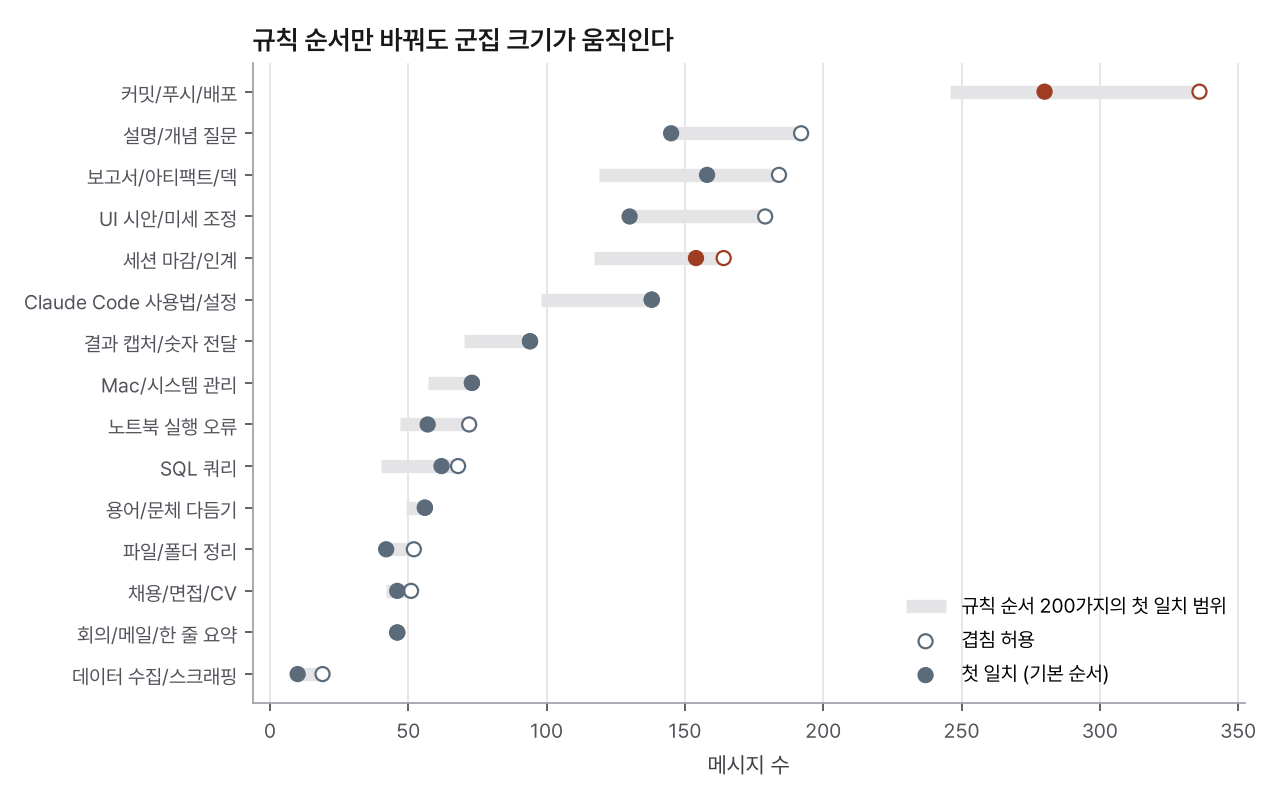
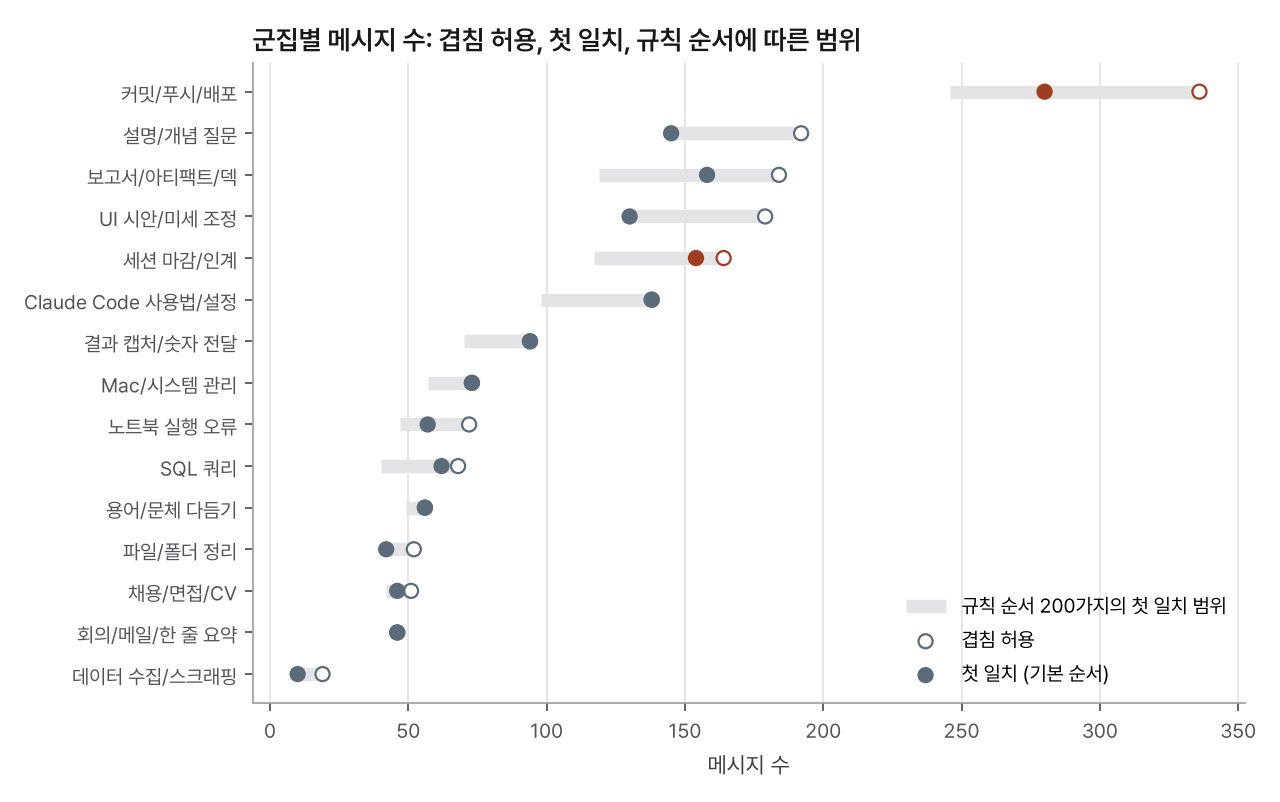
wrap 그림 제목을 명사형으로, 13%는 funnel.csv에서

Changed region(s): [[0.1875, 0.0312, 0.6875, 0.0623]]

diff --git a/session-wrap-usage-log/scripts/07_site_figures.py b/session-wrap-usage-log/scripts/07_site_figures.py
@@ -50,7 +50,7 @@ def fig1():
     ax.set_xlim(0, total)
     ax.set_ylim(-0.8, 0.72)
     ax.axis("off")
-    ax.set_title(f"user 내용 조각 {total:,}개 중 사람이 입력한 것은 13%다", pad=10)
+    ax.set_title(f"user content block {total:,}개의 구성 (사람이 입력한 것 {share:.0%})", pad=10)
     ss.save(fig, "fig1_composition")
 
 
@@ -68,7 +68,7 @@ def fig2():
     ax.set_xlabel("메시지 수")
     ax.grid(axis="x")
     ax.legend(loc="lower right")
-    ax.set_title("규칙 순서만 바꿔도 군집 크기가 움직인다")
+    ax.set_title("군집별 메시지 수: 겹침 허용, 첫 일치, 규칙 순서에 따른 범위")
     ss.save(fig, "fig2_cluster_counts")
 
 
@@ -95,7 +95,7 @@ def fig3():
     ax.set_xlabel("precision (잡은 것 중 맞은 비율)")
     ax.set_ylabel("recall (실제 그 의도 중 잡은 비율)")
     ax.grid()
-    ax.set_title("규칙의 오차는 놓치는 군집과 끌어오는 군집으로 갈린다")
+    ax.set_title("첫 일치 규칙의 군집별 precision과 recall")
     ss.save(fig, "fig3_rule_precision_recall")
 
 
@@ -117,7 +117,7 @@ def fig4():
     ax.set_xlabel("붙인 뒤 메시지 수 - ground truth (왼쪽은 작게, 오른쪽은 크게 셈)")
     ax.spines["left"].set_visible(False)
     ax.tick_params(axis="y", length=0)
-    ax.set_title("짧은 응답을 붙여도 세션 마감은 작고 UI 시안은 크다")
+    ax.set_title("짧은 응답을 붙인 뒤 군집별 오차")
     ss.save(fig, "fig4_context_truth")
 
 
@@ -141,7 +141,7 @@ def fig5():
     ax.set_xlabel("덮는 메시지 수")
     ax.grid(axis="x")
     ax.legend(loc="center right", bbox_to_anchor=(1, 0.45))
-    ax.set_title("어떻게 세도 A가 가장 크고, C와 D는 ground truth에서 뒤집힌다")
+    ax.set_title("후보별 메시지 수: 정규식 네 방법의 범위와 ground truth")
     ss.save(fig, "fig5_candidates")
 
 

diff --git a/session-wrap-usage-log/scripts/common.py b/session-wrap-usage-log/scripts/common.py
@@ -98,8 +98,8 @@ def matches(text: str) -> list[str]:
     return [k for k in CLUSTERS if PATTERN[k].search(text)]
 
 
-def first_match(text: str, order: list[str] = CLUSTERS) -> str:
-    for k in order:
+def first_match(text: str) -> str:
+    for k in CLUSTERS:
         if PATTERN[k].search(text):
             return k
     return "other"

diff --git a/session-wrap-usage-log/README.md b/session-wrap-usage-log/README.md
@@ -11,7 +11,7 @@ python -m venv .venv && .venv/bin/pip install -r requirements.txt
 for s in scripts/0*.py; do .venv/bin/python "$s"; done
 ```
 
-10초 안쪽. Python 3.14.7, numpy 2.5.3, pandas 3.0.6, matplotlib 3.11.2, pillow 12.3.0. 이 조합에서 `data/`와 `outputs/`를 지우고 다시 돌려도 생성 데이터, 결과 CSV, 그림이 byte 단위로 같았음.
+10초 안쪽. Python 3.14.7, numpy 2.5.4, pandas 3.1.1, matplotlib 3.11.2, pillow 13.0.0. 이 조합에서 `data/`와 `outputs/`를 지우고 다시 돌려도 생성 데이터, 결과 CSV, 그림이 byte 단위로 같았음.
 
 ## 스크립트
 
@@ -20,7 +20,7 @@ for s in scripts/0*.py; do .venv/bin/python "$s"; done
 | 01 | 프로젝트 10개, 30일, 본 세션 229개와 서브에이전트 기록 생성. 문장은 `phrases.txt` | `data/transcripts.jsonl.gz`, `truth_parts.csv` |
 | 02 | 사람 메시지 거르기 (1차 접두어, 2차 IDE 자동 삽입과 다른 세션이 쓴 첫 지시문), 슬래시 명령과 스킬 호출 세기 | `data/messages.csv`, `funnel.csv`, `project_messages.csv`, `slash_commands.csv`, `skill_calls.csv` |
 | 03 | 정규식 군집. 겹침 허용, 첫 일치, 규칙 순서 200가지의 첫 일치 범위 | `data/labels.csv`, `cluster_counts.csv`, `count_summary.csv`, `cluster_by_project.csv` |
-| 04 | 기타 군집의 짧은 응답에 직전 assistant 텍스트나 앞 메시지의 군집을 붙임, /clear 직전 메시지 | `data/labels_ctx.csv`, `clear_before.csv`, `other_breakdown.csv`, `context_counts.csv`, `clear_context.csv` |
+| 04 | 기타 군집의 짧은 응답에 직전 assistant 텍스트나 앞 메시지의 군집을 붙임, /clear 직전 메시지 | `data/labels_ctx.csv`, `data/clear_before.csv`, `other_breakdown.csv`, `context_counts.csv`, `clear_context.csv` |
 | 05 | 후보 4개가 덮는 메시지 수 (겹침 합, 합집합, 첫 일치, 짧은 응답 포함), 퍼진 프로젝트 수, 스킬 호출 대비 대화 건수 | `candidates.csv`, `skill_vs_dialog.csv` |
 | 06 | ground truth 평가. 거르기, 군집별 precision/recall, 기타의 실제 구성, 후보별 실제 크기 | `eval_*.csv` |
 | 07 | 그림 5장 | `outputs/figures/site/fig1~5` |
@@ -41,3 +41,4 @@ for s in scripts/0*.py; do .venv/bin/python "$s"; done
 
 - 의도 정답은 생성기가 정한 것. 정규식이 놓치거나 잘못 잡는 비율은 `phrases.txt`의 문장 구성에 따라 바뀜
 - 확인 질문 뒤 짧은 응답 확률은 커밋/푸시에 가장 높게 넣었음 (0.4, 나머지 0.12~0.3). 실제 기록에서 센 값이 아님
+- 그림 글꼴은 `sitestyle.py`가 macOS 경로(`~/Library/Fonts`, `/Library/Fonts`)에서 Pretendard를 찾고, 없으면 AppleGothic. 이 글꼴이 없는 환경에서는 그림이 위와 byte 단위로 같지 않음
